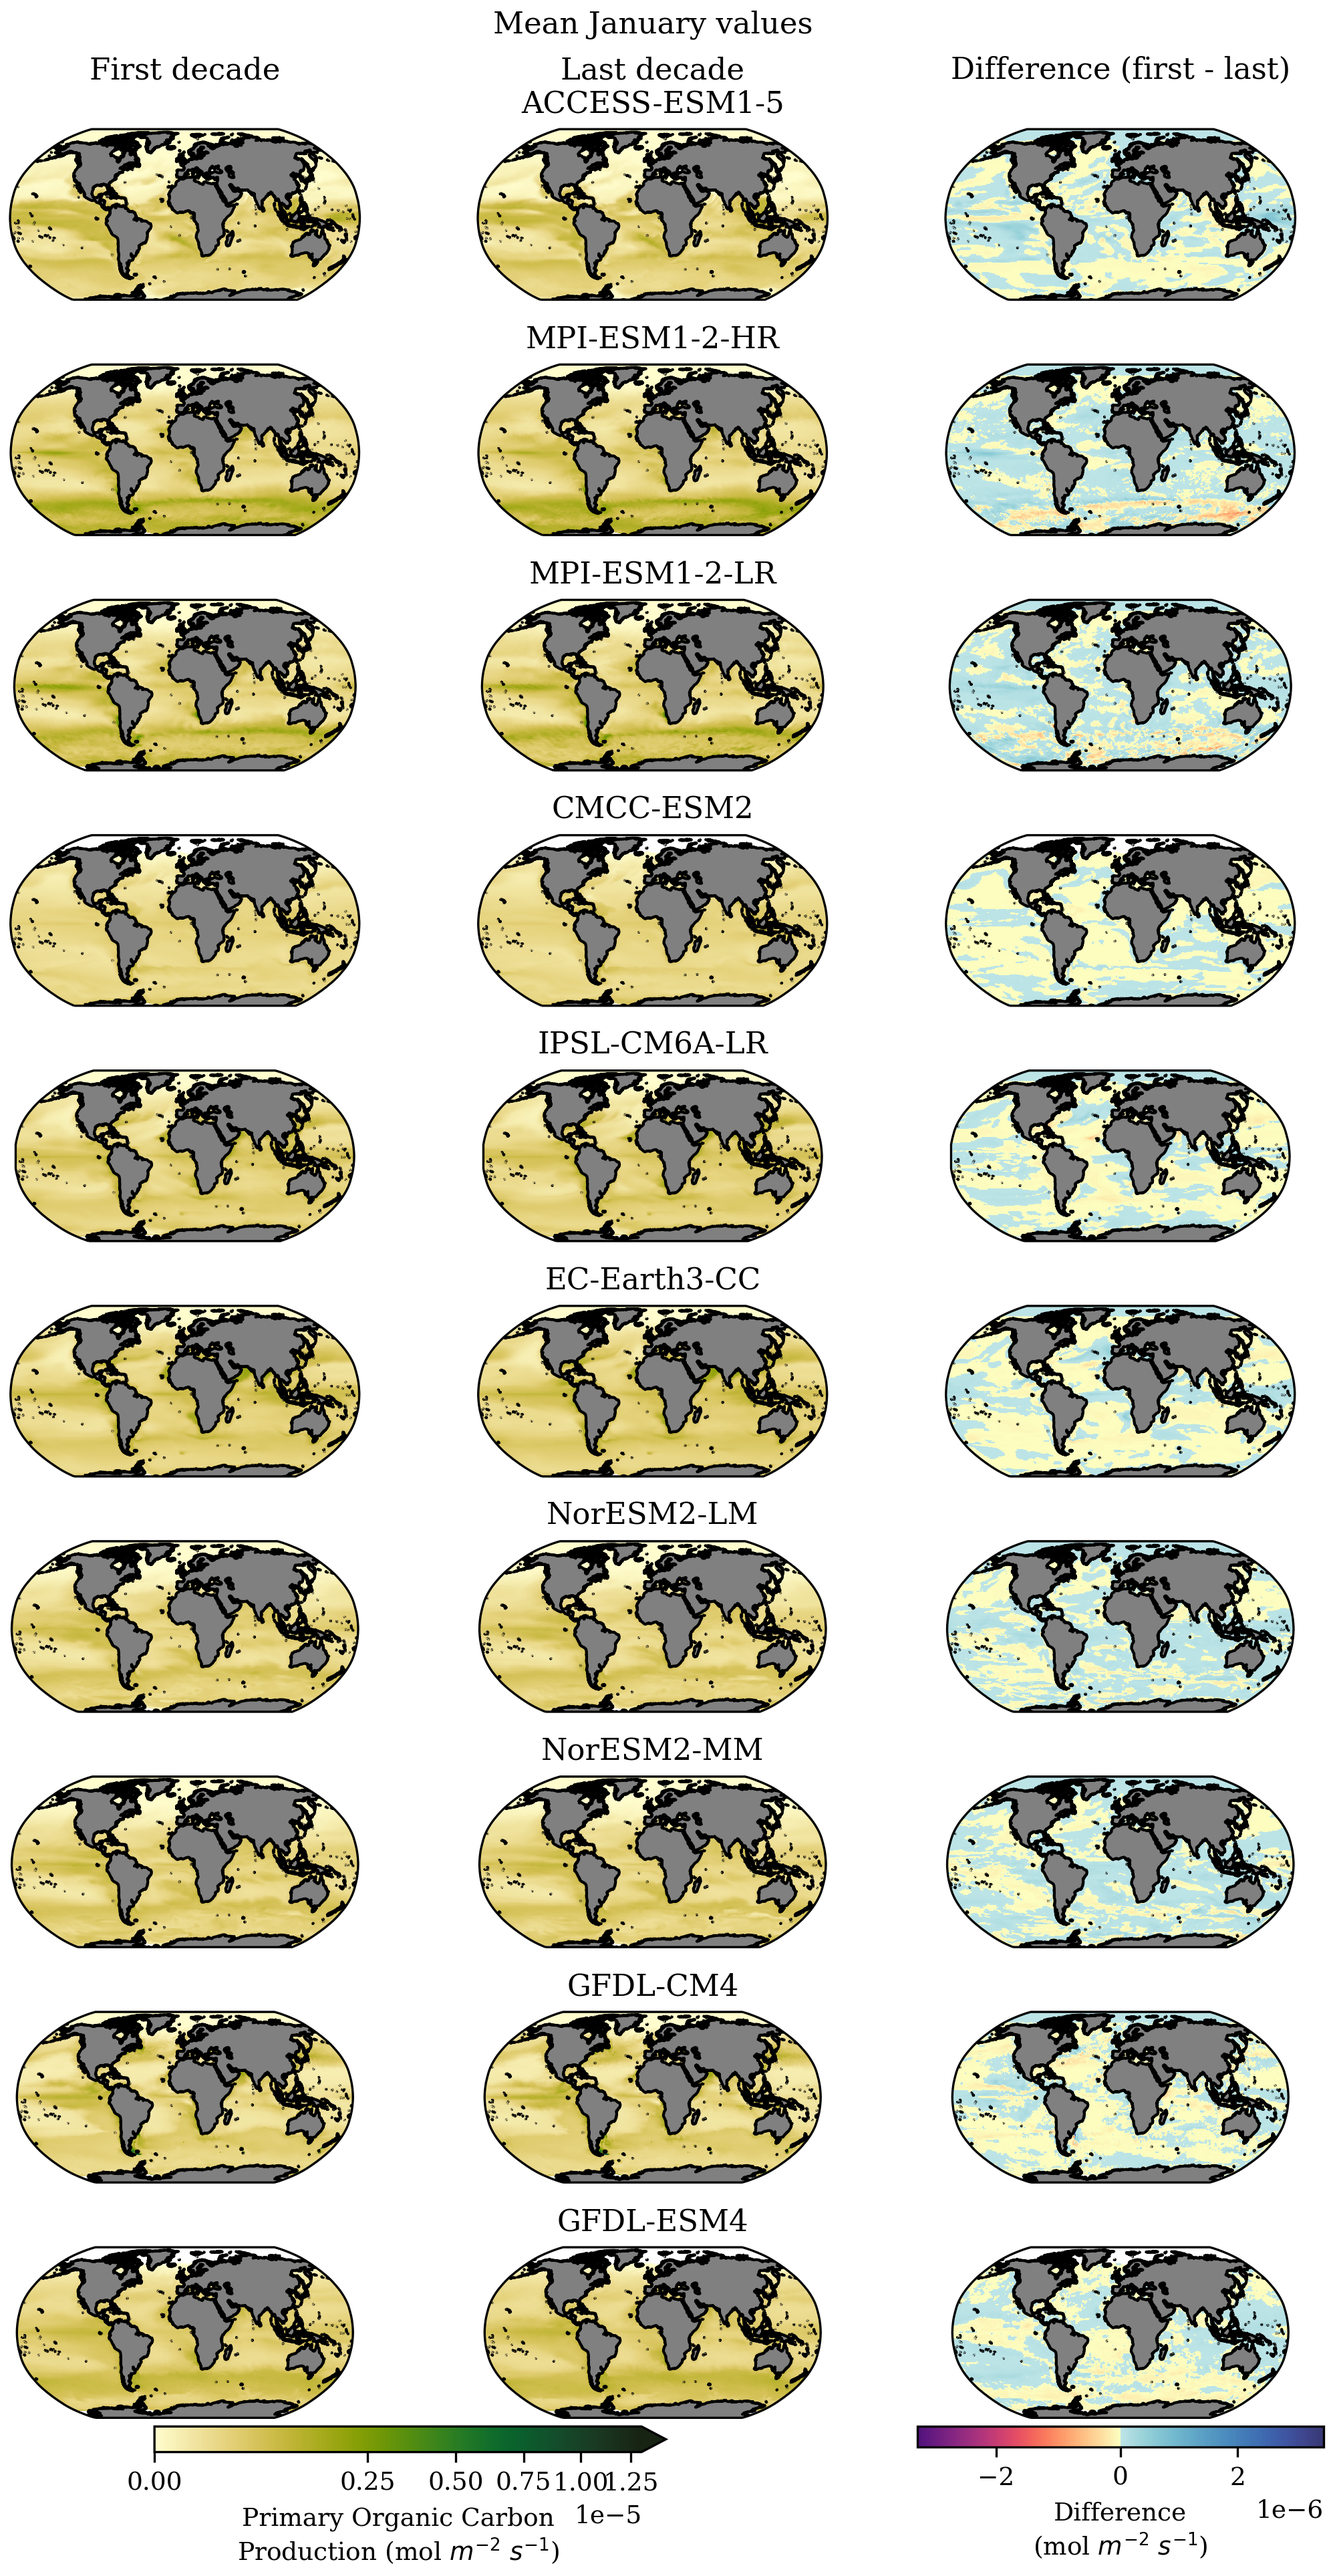
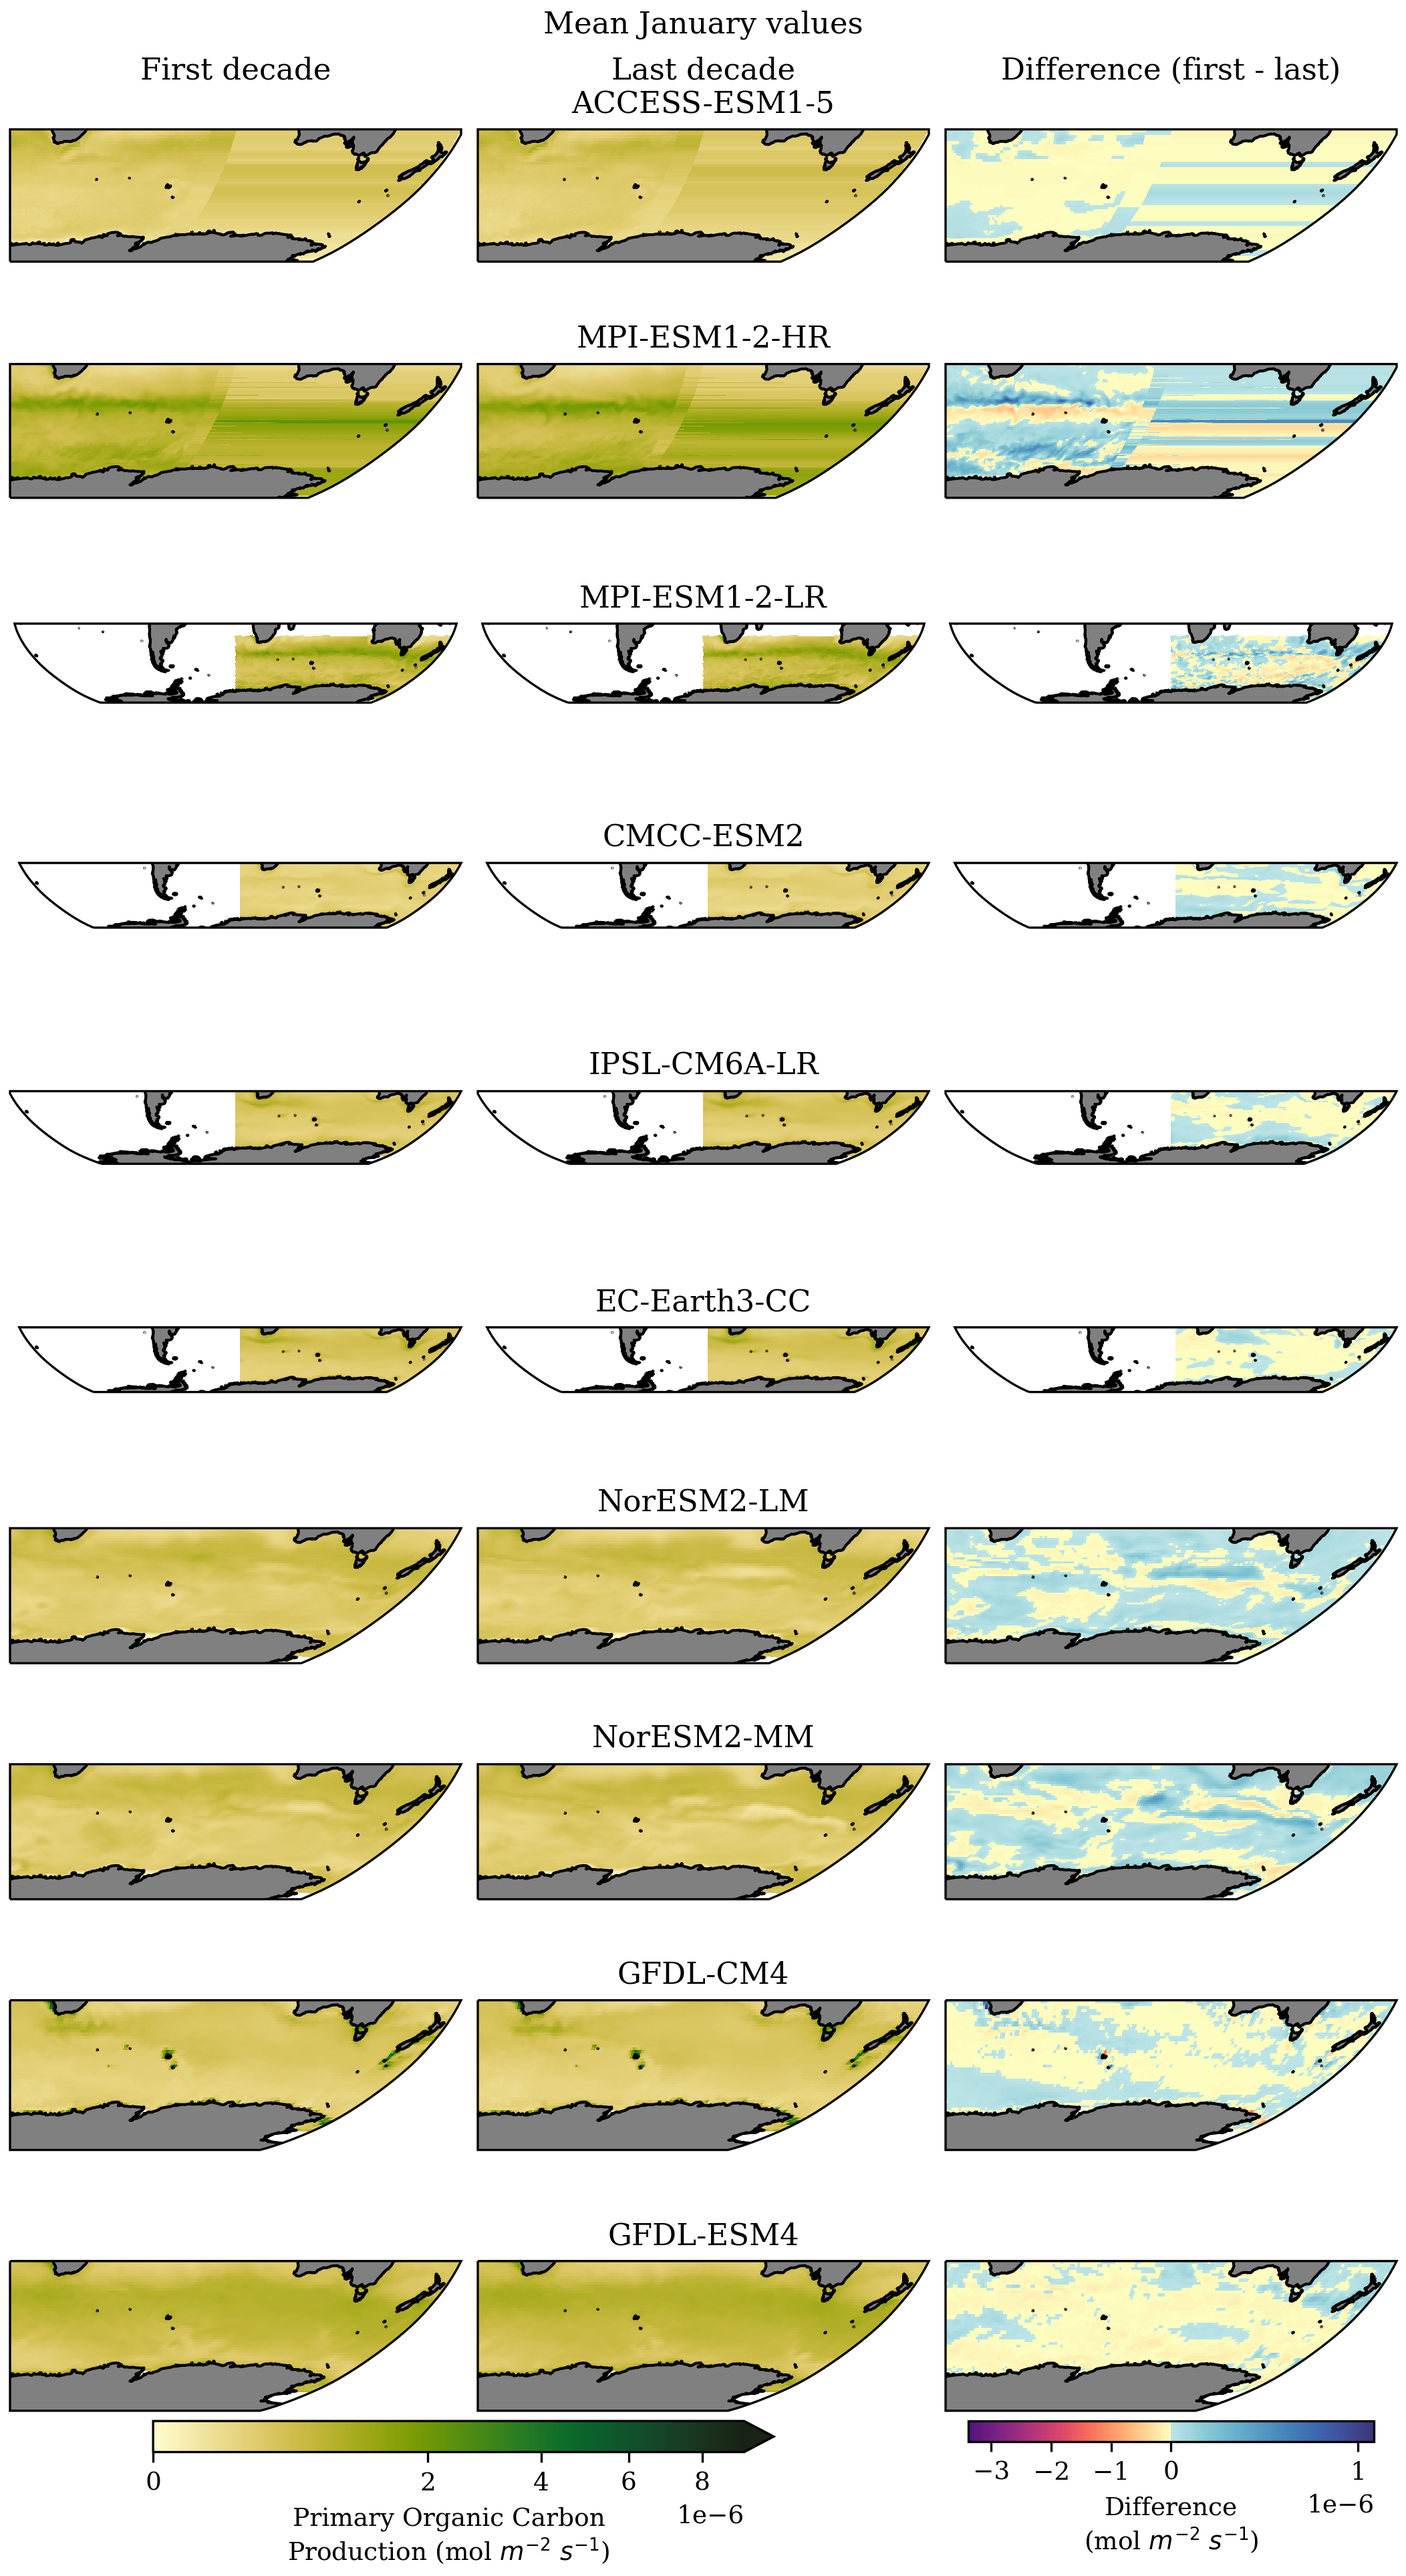
Updating markdowns in github friendly format

diff --git a/Scripts/04_Plotting_CMIP6_data.md b/Scripts/04_Plotting_CMIP6_data.md
@@ -46,10 +46,10 @@ results_query <- read_csv("../Outputs/results_query_intpp.csv") %>%
          mean_decN = NA)
 ```
 
-    ## Rows: 39 Columns: 33
+    ## Rows: 43 Columns: 34
     ## ── Column specification ────────────────────────────────────────────────────────
     ## Delimiter: ","
-    ## chr  (23): file_id, dataset_id, mip_era, activity_drs, institution_id, sourc...
+    ## chr  (24): file_id, dataset_id, mip_era, activity_drs, institution_id, sourc...
     ## dbl   (7): version, file_size, count, decade_0_start, decade_0_end, decade_N...
     ## lgl   (1): keep
     ## dttm  (2): datetime_start, datetime_end
@@ -69,23 +69,161 @@ for(i in 1:nrow(results_query)){
                                           pattern = paste0("*.intpp.*Mean.", results_query$decade_N_start[i]), 
                                           full.names = T)
 }
+```
 
+    ## Warning in results_query$mean_dec0[i] <-
+    ## list.files(results_query$out_full_folder[i], : number of items to replace is not
+    ## a multiple of replacement length
+
+    ## Warning in results_query$mean_decN[i] <-
+    ## list.files(results_query$out_full_folder[i], : number of items to replace is not
+    ## a multiple of replacement length
+
+    ## Warning in results_query$mean_dec0[i] <-
+    ## list.files(results_query$out_full_folder[i], : number of items to replace is not
+    ## a multiple of replacement length
+
+    ## Warning in results_query$mean_decN[i] <-
+    ## list.files(results_query$out_full_folder[i], : number of items to replace is not
+    ## a multiple of replacement length
+
+    ## Warning in results_query$mean_dec0[i] <-
+    ## list.files(results_query$out_full_folder[i], : number of items to replace is not
+    ## a multiple of replacement length
+
+    ## Warning in results_query$mean_decN[i] <-
+    ## list.files(results_query$out_full_folder[i], : number of items to replace is not
+    ## a multiple of replacement length
+
+    ## Warning in results_query$mean_dec0[i] <-
+    ## list.files(results_query$out_full_folder[i], : number of items to replace is not
+    ## a multiple of replacement length
+
+    ## Warning in results_query$mean_decN[i] <-
+    ## list.files(results_query$out_full_folder[i], : number of items to replace is not
+    ## a multiple of replacement length
+
+    ## Warning in results_query$mean_dec0[i] <-
+    ## list.files(results_query$out_full_folder[i], : number of items to replace is not
+    ## a multiple of replacement length
+
+    ## Warning in results_query$mean_decN[i] <-
+    ## list.files(results_query$out_full_folder[i], : number of items to replace is not
+    ## a multiple of replacement length
+
+    ## Warning in results_query$mean_dec0[i] <-
+    ## list.files(results_query$out_full_folder[i], : number of items to replace is not
+    ## a multiple of replacement length
+
+    ## Warning in results_query$mean_decN[i] <-
+    ## list.files(results_query$out_full_folder[i], : number of items to replace is not
+    ## a multiple of replacement length
+
+    ## Warning in results_query$mean_dec0[i] <-
+    ## list.files(results_query$out_full_folder[i], : number of items to replace is not
+    ## a multiple of replacement length
+
+    ## Warning in results_query$mean_decN[i] <-
+    ## list.files(results_query$out_full_folder[i], : number of items to replace is not
+    ## a multiple of replacement length
+
+    ## Warning in results_query$mean_dec0[i] <-
+    ## list.files(results_query$out_full_folder[i], : number of items to replace is not
+    ## a multiple of replacement length
+
+    ## Warning in results_query$mean_decN[i] <-
+    ## list.files(results_query$out_full_folder[i], : number of items to replace is not
+    ## a multiple of replacement length
+
+    ## Warning in results_query$mean_dec0[i] <-
+    ## list.files(results_query$out_full_folder[i], : number of items to replace is not
+    ## a multiple of replacement length
+
+    ## Warning in results_query$mean_decN[i] <-
+    ## list.files(results_query$out_full_folder[i], : number of items to replace is not
+    ## a multiple of replacement length
+
+    ## Warning in results_query$mean_dec0[i] <-
+    ## list.files(results_query$out_full_folder[i], : number of items to replace is not
+    ## a multiple of replacement length
+
+    ## Warning in results_query$mean_decN[i] <-
+    ## list.files(results_query$out_full_folder[i], : number of items to replace is not
+    ## a multiple of replacement length
+
+    ## Warning in results_query$mean_dec0[i] <-
+    ## list.files(results_query$out_full_folder[i], : number of items to replace is not
+    ## a multiple of replacement length
+
+    ## Warning in results_query$mean_decN[i] <-
+    ## list.files(results_query$out_full_folder[i], : number of items to replace is not
+    ## a multiple of replacement length
+
+    ## Warning in results_query$mean_dec0[i] <-
+    ## list.files(results_query$out_full_folder[i], : number of items to replace is not
+    ## a multiple of replacement length
+
+    ## Warning in results_query$mean_decN[i] <-
+    ## list.files(results_query$out_full_folder[i], : number of items to replace is not
+    ## a multiple of replacement length
+
+    ## Warning in results_query$mean_dec0[i] <-
+    ## list.files(results_query$out_full_folder[i], : number of items to replace is not
+    ## a multiple of replacement length
+
+    ## Warning in results_query$mean_decN[i] <-
+    ## list.files(results_query$out_full_folder[i], : number of items to replace is not
+    ## a multiple of replacement length
+
+    ## Warning in results_query$mean_dec0[i] <-
+    ## list.files(results_query$out_full_folder[i], : number of items to replace is not
+    ## a multiple of replacement length
+
+    ## Warning in results_query$mean_decN[i] <-
+    ## list.files(results_query$out_full_folder[i], : number of items to replace is not
+    ## a multiple of replacement length
+
+    ## Warning in results_query$mean_dec0[i] <-
+    ## list.files(results_query$out_full_folder[i], : number of items to replace is not
+    ## a multiple of replacement length
+
+    ## Warning in results_query$mean_decN[i] <-
+    ## list.files(results_query$out_full_folder[i], : number of items to replace is not
+    ## a multiple of replacement length
+
+    ## Warning in results_query$mean_dec0[i] <-
+    ## list.files(results_query$out_full_folder[i], : number of items to replace is not
+    ## a multiple of replacement length
+
+    ## Warning in results_query$mean_decN[i] <-
+    ## list.files(results_query$out_full_folder[i], : number of items to replace is not
+    ## a multiple of replacement length
+
+    ## Warning in results_query$mean_dec0[i] <-
+    ## list.files(results_query$out_full_folder[i], : number of items to replace is not
+    ## a multiple of replacement length
+
+    ## Warning in results_query$mean_decN[i] <-
+    ## list.files(results_query$out_full_folder[i], : number of items to replace is not
+    ## a multiple of replacement length
+
+``` r
 #Checking results
 head(results_query, n = 2)
 ```
 
-    ## # A tibble: 2 × 35
+    ## # A tibble: 2 × 36
     ##   file_id        datas…¹ mip_era activ…² insti…³ sourc…⁴ exper…⁵ membe…⁶ table…⁷
     ##   <chr>          <chr>   <chr>   <chr>   <chr>   <chr>   <chr>   <chr>   <chr>  
     ## 1 CMIP6.Scenari… CMIP6.… CMIP6   Scenar… CSIRO   ACCESS… ssp245  r1i1p1… Omon   
     ## 2 CMIP6.Scenari… CMIP6.… CMIP6   Scenar… DKRZ    MPI-ES… ssp245  r1i1p1… Omon   
-    ## # … with 26 more variables: frequency <chr>, grid_label <chr>, version <dbl>,
+    ## # … with 27 more variables: frequency <chr>, grid_label <chr>, version <dbl>,
     ## #   nominal_resolution <chr>, variable_id <chr>, variable_long_name <chr>,
     ## #   variable_units <chr>, datetime_start <dttm>, datetime_end <dttm>,
     ## #   file_size <dbl>, data_node <chr>, file_url <chr>, dataset_pid <chr>,
     ## #   tracking_id <chr>, count <dbl>, decade_0_start <dbl>, decade_0_end <dbl>,
-    ## #   decade_N_end <dbl>, decade_N_start <dbl>, keep <lgl>, base_file_name <chr>,
-    ## #   out_file_name <chr>, out_full_folder <chr>, out_path <chr>, …
+    ## #   decade_N_end <dbl>, decade_N_start <dbl>, keep <lgl>, decade <chr>,
+    ## #   base_file_name <chr>, out_file_name <chr>, out_full_folder <chr>, …
 
 ## Loading data using Python
 

diff --git a/Scripts/02b_Downloading_CMIP6_data_large_datasets.md b/Scripts/02b_Downloading_CMIP6_data_large_datasets.md
@@ -36,7 +36,6 @@ data.
 First, we will load the `R` libraries we will need for this notebook.
 
 ``` r
-library(reticulate)
 library(tidyverse)
 ```
 
@@ -62,7 +61,7 @@ the first and last decades.
 results_query <- read_csv("../Outputs/results_query_tos_siconc.csv")
 ```
 
-    ## Rows: 377 Columns: 34
+    ## Rows: 371 Columns: 34
     ## ── Column specification ────────────────────────────────────────────────────────
     ## Delimiter: ","
     ## chr  (24): file_id, dataset_id, mip_era, activity_drs, institution_id, sourc...
@@ -102,7 +101,7 @@ repository has instructions on how to create this environment using the
 
 ``` r
 #Activating the conda environment containing relevant Python libraries
-use_condaenv("CMIP6_data")
+reticulate::use_condaenv("CMIP6_data")
 ```
 
 ## Loading `Python` libraries
@@ -283,15 +282,15 @@ ds
 ```
 
     ## <xarray.Dataset>
-    ## Dimensions:  (time: 120, y: 292, x: 362)
+    ## Dimensions:  (time: 240, y: 385, x: 360)
     ## Coordinates:
-    ##   * time     (time) datetime64[ns] 2015-01-16T12:00:00 ... 2024-12-16T12:00:00
-    ##   * y        (y) int32 1 2 3 4 5 6 7 8 9 ... 284 285 286 287 288 289 290 291 292
-    ##   * x        (x) int32 1 2 3 4 5 6 7 8 9 ... 354 355 356 357 358 359 360 361 362
+    ##   * time     (time) object 1850-01-16 12:00:00 ... 2014-12-16 12:00:00
+    ##   * y        (y) int32 1 2 3 4 5 6 7 8 9 ... 377 378 379 380 381 382 383 384 385
+    ##   * x        (x) int32 1 2 3 4 5 6 7 8 9 ... 352 353 354 355 356 357 358 359 360
     ##     lat      (y, x) float64 ...
     ##     lon      (y, x) float64 ...
     ## Data variables:
-    ##     siconc   (time, y, x) float32 ...
+    ##     tos      (time, y, x) float32 ...
 
 ### Plotting results
 

diff --git a/Scripts/03b_Calculating_monthly_means_in_Python.md b/Scripts/03b_Calculating_monthly_means_in_Python.md
@@ -24,8 +24,7 @@ step: [02_Downloading_CMIP6_data](02_Downloading_CMIP6_data.md). We will
 then save the results as a netcdf files locally.
 
 ``` r
-library(reticulate)
-use_condaenv("CMIP6_data")
+reticulate::use_condaenv("CMIP6_data")
 ```
 
 ## Loading relevant Python libraries
@@ -57,14 +56,14 @@ CMIP6_query = pd.read_csv("../Outputs/results_merged.csv")
 CMIP6_query = CMIP6_query.astype({'decade_0_start': 'int32', 'decade_0_end': 'int32',\
 'decade_N_start': 'int32', 'decade_N_end': 'int32'})
 
-CMIP6_query = CMIP6_query.drop_duplicates(subset = ['out_file_name']).reset_index()
+CMIP6_query = CMIP6_query.drop_duplicates(subset = ['out_file_name']).reset_index(drop = True)
 
 CMIP6_query.head(n = 2)
 ```
 
-    ##    index  ...  keep
-    ## 0      0  ...  True
-    ## 1      1  ...  True
+    ##                                              file_id  ...                                           out_path
+    ## 0  CMIP6.CMIP.CSIRO.ACCESS-ESM1-5.historical.r1i1...  ...  /perm_storage/home/data/CMIP6_data/ACCESS-ESM1...
+    ## 1  CMIP6.CMIP.CSIRO.ACCESS-ESM1-5.historical.r1i1...  ...  /perm_storage/home/data/CMIP6_data/ACCESS-ESM1...
     ## 
     ## [2 rows x 34 columns]
 
@@ -97,6 +96,8 @@ def month_mean_CMIP6(df):
   #Saving outputs as netcdf files
   ds0.to_netcdf(out_dec0)
   dsN.to_netcdf(out_decN)
+  
+  ds.close()
 ```
 
 Applying function above for each file saved locally.
@@ -115,7 +116,7 @@ to check monthly means.
 
 ``` python
 #Selecting one file at random
-file_path = glob(os.path.join(CMIP6_query['out_full_folder'][13], "*.MonthlyMean*.nc"))[0]
+file_path = [i for i in glob(os.path.join(CMIP6_query['out_full_folder'][13], "*.MonthlyMean*.nc")) if 'SO' not in i][0]
 
 #Loading last dataset saved
 test = xr.open_dataset(file_path)
